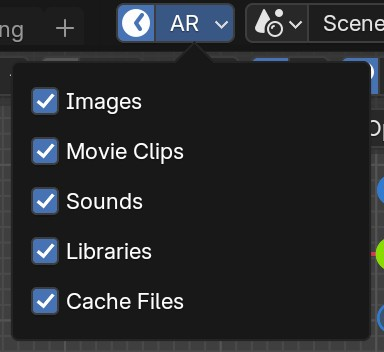
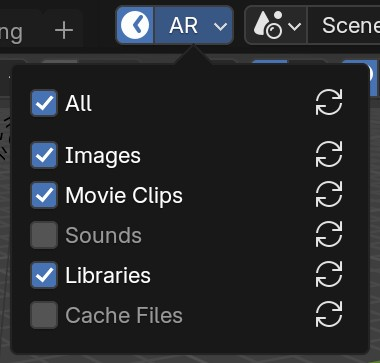
add reload operator and fix manifest

diff --git a/gui.py b/gui.py
@@ -13,12 +13,41 @@ class AUTORELOAD_MT_file_popover(bpy.types.Panel):
 
         layout = self.layout
         
-        layout.prop(props, "autoreload_images", text="Images")
-        layout.prop(props, "autoreload_movieclips", text="Movie Clips")
-        layout.prop(props, "autoreload_sounds", text="Sounds")
-        layout.prop(props, "autoreload_libraries", text="Libraries")
-        layout.prop(props, "autoreload_cache_files", text="Cache Files")
-
+        col = layout.column(align = True)
+        
+        row = col.row()
+        row.prop(props, "autoreload_select_all", text="All")
+        op = row.operator("autoreload.reload", text="", icon="FILE_REFRESH", emboss=False)
+        op.behavior = "all"
+        
+        col.separator()
+        
+        row = col.row()
+        row.prop(props, "autoreload_images", text="Images")
+        op = row.operator("autoreload.reload", text="", icon="FILE_REFRESH", emboss=False)
+        op.behavior = "images"
+        
+        row = col.row()
+        row.prop(props, "autoreload_movieclips", text="Movie Clips")
+        op = row.operator("autoreload.reload", text="", icon="FILE_REFRESH", emboss=False)
+        op.behavior = "movieclips"
+        
+        row = col.row()
+        row.prop(props, "autoreload_sounds", text="Sounds")
+        op = row.operator("autoreload.reload", text="", icon="FILE_REFRESH", emboss=False)
+        op.behavior = "sounds"
+        
+        row = col.row()
+        row.prop(props, "autoreload_libraries", text="Libraries")
+        op = row.operator("autoreload.reload", text="", icon="FILE_REFRESH", emboss=False)
+        op.behavior = "libraries"
+        
+        row = col.row()
+        row.prop(props, "autoreload_cache_files", text="Cache Files")
+        op = row.operator("autoreload.reload", text="", icon="FILE_REFRESH", emboss=False)
+        op.behavior = "cache_files"
+        
+        
 # File menu drawer
 def file_menu_drawer(self, context):
     if context.region.alignment == 'RIGHT':
@@ -36,7 +65,6 @@ def file_menu_drawer(self, context):
             panel="AUTORELOAD_MT_file_popover",
             text="AR",
             )
-        # self.layout.menu('AUTORELOAD_MT_file_menu', text="AR")
 
 
 ### REGISTER ---

diff --git a/reload_operator.py b/reload_operator.py
@@ -1,0 +1,42 @@
+import bpy
+from . import reload
+
+from .addon_prefs import get_addon_preferences
+
+
+class AUTORELOAD_OT_reload(bpy.types.Operator):
+    bl_idname = "autoreload.reload"
+    bl_label = "Reload Datas"
+    bl_description = "Reload datas if modified."
+    bl_options = {"REGISTER", "UNDO", "INTERNAL"}
+    
+    behavior : bpy.props.StringProperty()
+
+    def execute(self, context):
+        props = context.window_manager.autoreload_properties
+        
+        if self.behavior == "all":
+            reload.reload_modified_objects()
+            
+        else:
+            obj_to_reload = reload.get_files_size(self.behavior)
+            
+            if get_addon_preferences().debug:
+                print("AUTORELOAD --- Objects to reload :")
+                print(obj_to_reload)
+                
+            function = f"reload.reload_{self.behavior}(obj_to_reload)"
+            exec(function)
+        
+        self.report({'INFO'}, f"{self.behavior} modified datas reloaded")
+        
+        return {"FINISHED"}
+
+    
+### REGISTER ---
+def register():
+    bpy.utils.register_class(AUTORELOAD_OT_reload)
+
+def unregister():
+    bpy.utils.unregister_class(AUTORELOAD_OT_reload)
+            

diff --git a/properties.py b/properties.py
@@ -1,5 +1,12 @@
 import bpy
 
+from .reload import object_types
+
+
+def select_all_callback(self, context):
+    value = self.autoreload_select_all
+    for obj_type in object_types:
+        setattr(self, f"autoreload_{obj_type}", value)
 
 class AUTORELOAD_PR_properties(bpy.types.PropertyGroup) :
     
@@ -17,12 +24,17 @@ class AUTORELOAD_PR_properties(bpy.types.PropertyGroup) :
         name = 'Autoreload Libraries',
     )
     autoreload_cache_files : bpy.props.BoolProperty(
-        name='Autoreload Cache Files',
+        name = 'Autoreload Cache Files',
         )
     
     autoreload_run : bpy.props.BoolProperty(
         name = "Autoreload Run",
     )
+    
+    autoreload_select_all : bpy.props.BoolProperty(
+        name = 'Autoreload Select All',
+        update = select_all_callback,
+        )
 
 
 ### REGISTER ---

diff --git a/reload.py b/reload.py
@@ -263,14 +263,14 @@ def reload_modified_objects():
         if getattr(props, f"autoreload_{obj_type}"):
             obj_to_reload[obj_type] = get_files_size(obj_type)
     
-    for obj_type in object_types:
-        function = f"reload_{obj_type}(obj_to_reload[obj_type])"
-        exec(function)
-
     # Reload objects
     if get_addon_preferences().debug:
         print("AUTORELOAD --- Objects to reload :")
         print(obj_to_reload)
+        
+    for obj_type in object_types:
+        function = f"reload_{obj_type}(obj_to_reload[obj_type])"
+        exec(function)
 
 
 def timer_reload_files():

diff --git a/__init__.py b/__init__.py
@@ -27,6 +27,7 @@ from . import   (
     properties,
     gui,
     reload,
+    reload_operator,
 )
 
 
@@ -37,9 +38,11 @@ def register():
     properties.register()
     gui.register()
     reload.register()
+    reload_operator.register()
 
 def unregister():
     addon_prefs.unregister()
     properties.unregister()
     gui.unregister()
     reload.unregister()
+    reload_operator.unregister()
